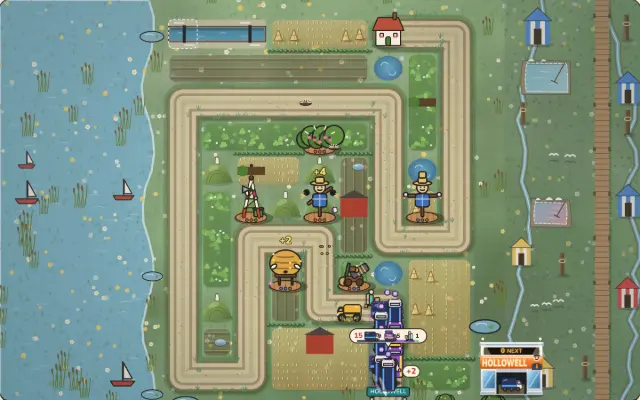
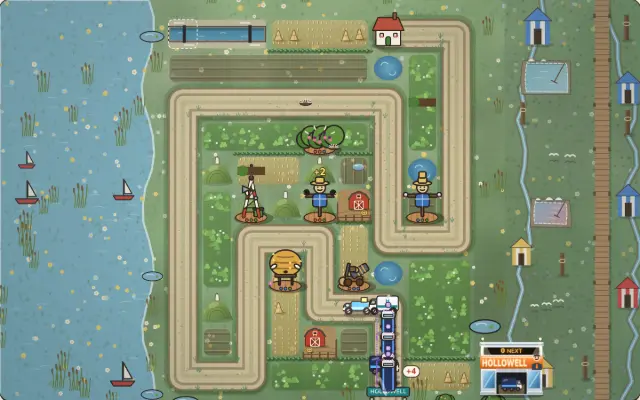
Hedgerow 345 slice 5: barns in farmyards (yard, fence, bale, a real barn) with the hens; item done
Claude-Session: https://claude.ai/code/session_01SimvMNJwjLrf1ytcJASHLK

diff --git a/games/hedgerow/src/render.ts b/games/hedgerow/src/render.ts
@@ -1264,17 +1264,8 @@ export class Renderer {
       }
     }
 
-    for (const [c, r] of level.barns ?? []) {
-      const w = X(1) - X(0);
-      ctx.fillStyle = "#a8402f";
-      ctx.fillRect(X(c) + w * 0.1, Y(r) + w * 0.25, w * 0.8, w * 0.6);
-      ctx.fillStyle = "#4a4540";
-      ctx.beginPath();
-      ctx.moveTo(X(c) + w * 0.04, Y(r) + w * 0.3);
-      ctx.lineTo(X(c) + w * 0.5, Y(r) + w * 0.06);
-      ctx.lineTo(X(c) + w * 0.96, Y(r) + w * 0.3);
-      ctx.fill();
-    }
+    // Plan item 345: each barn stands in its own farmyard (packed earth, a rail fence, a bale), where the hens peck.
+    for (const [c, r] of level.barns ?? []) drawFarmyard(ctx, X(c), Y(r), X(1) - X(0), c * 7 + r * 13 + level.id);
     // Fallen oaks lie across their plots until cleared.
     for (const [c, r] of level.oaks ?? []) {
       if (!oakAt(game, c, r)) continue;
@@ -2268,3 +2259,139 @@ function svgImage(svg: string): HTMLImageElement {
 
 // Keep theme exports reachable for the level-select art.
 export { themeFor };
+
+/**
+ * Plan item 345: a barn in its farmyard, drawn over its one cell (the barn's footprint in the rules) with the yard
+ * spilling a little into the grass round it: packed earth with wheel ruts, a post-and-rail fence along the yard's
+ * open sides, a round bale, and the barn itself (a gambrel roof, a hay-loft door, the big doors braced in white).
+ */
+function drawFarmyard(ctx: CanvasRenderingContext2D, x: number, y: number, w: number, seed: number): void {
+  const r01 = rng(seed);
+  const flip = r01() < 0.5;
+  ctx.save();
+  // The yard: packed earth, a soft edge, two ruts.
+  ctx.fillStyle = "rgba(40,30,10,0.16)";
+  ctx.beginPath();
+  ctx.roundRect(x + w * 0.02, y + w * 0.06, w * 0.96, w * 0.96, w * 0.2);
+  ctx.fill();
+  ctx.fillStyle = "rgb(168,138,92)";
+  ctx.beginPath();
+  ctx.roundRect(x + w * 0.02, y + w * 0.04, w * 0.96, w * 0.94, w * 0.2);
+  ctx.fill();
+  ctx.strokeStyle = "rgba(96,70,40,0.35)";
+  ctx.lineWidth = Math.max(1, w * 0.025);
+  for (const k of [0.62, 0.74]) {
+    ctx.beginPath();
+    ctx.moveTo(x + w * 0.05, y + w * (k + 0.12));
+    ctx.quadraticCurveTo(x + w * 0.5, y + w * (k - 0.02), x + w * 0.98, y + w * (k + 0.08));
+    ctx.stroke();
+  }
+  // The fence: posts and two rails along the front and one side.
+  const fx = flip ? x + w * 0.02 : x + w * 0.98;
+  ctx.strokeStyle = "#6b4b2c";
+  ctx.lineCap = "round";
+  ctx.lineWidth = Math.max(1, w * 0.03);
+  for (const k of [0.84, 0.95]) {
+    ctx.beginPath();
+    ctx.moveTo(x + w * 0.02, y + w * (k + 0.02));
+    ctx.lineTo(x + w * 0.98, y + w * (k + 0.02));
+    ctx.moveTo(fx, y + w * (k - 0.42));
+    ctx.lineTo(fx, y + w * (k + 0.02));
+    ctx.stroke();
+  }
+  ctx.lineWidth = Math.max(1.5, w * 0.045);
+  for (let i = 0; i <= 4; i++) {
+    const px = x + w * (0.02 + i * 0.24);
+    ctx.beginPath();
+    ctx.moveTo(px, y + w * 0.8);
+    ctx.lineTo(px, y + w * 1.0);
+    ctx.stroke();
+  }
+  for (const k of [0.45, 0.65]) {
+    ctx.beginPath();
+    ctx.moveTo(fx, y + w * k);
+    ctx.lineTo(fx, y + w * (k + 0.16));
+    ctx.stroke();
+  }
+  // A round bale in the yard's open corner.
+  const bx = flip ? x + w * 0.8 : x + w * 0.2;
+  const by = y + w * 0.72;
+  ctx.fillStyle = "rgba(60,40,12,0.25)";
+  ctx.beginPath();
+  ctx.ellipse(bx + w * 0.03, by + w * 0.07, w * 0.11, w * 0.04, 0, 0, Math.PI * 2);
+  ctx.fill();
+  ctx.fillStyle = "#e0bd68";
+  ctx.strokeStyle = "rgba(120,86,30,0.9)";
+  ctx.lineWidth = Math.max(1, w * 0.02);
+  ctx.beginPath();
+  ctx.ellipse(bx, by, w * 0.1, w * 0.085, 0, 0, Math.PI * 2);
+  ctx.fill();
+  ctx.stroke();
+  ctx.beginPath();
+  ctx.ellipse(bx, by, w * 0.05, w * 0.042, 0, 0, Math.PI * 2);
+  ctx.stroke();
+  // The barn, set to the back of the yard, its shadow falling right.
+  const bw = w * 0.56;
+  const left = flip ? x + w * 0.36 : x + w * 0.08;
+  const top = y + w * 0.12;
+  const wallTop = top + w * 0.2;
+  const base = y + w * 0.62;
+  ctx.fillStyle = "rgba(40,28,10,0.28)";
+  ctx.beginPath();
+  ctx.ellipse(left + bw * 0.6, base + w * 0.015, bw * 0.62, w * 0.05, 0, 0, Math.PI * 2);
+  ctx.fill();
+  ctx.fillStyle = "#b5432f";
+  ctx.strokeStyle = "#5a2418";
+  ctx.lineJoin = "round";
+  ctx.lineWidth = Math.max(1, w * 0.022);
+  ctx.beginPath();
+  ctx.moveTo(left, base);
+  ctx.lineTo(left, wallTop);
+  ctx.lineTo(left + bw * 0.16, top + w * 0.06);
+  ctx.lineTo(left + bw * 0.5, top - w * 0.02);
+  ctx.lineTo(left + bw * 0.84, top + w * 0.06);
+  ctx.lineTo(left + bw, wallTop);
+  ctx.lineTo(left + bw, base);
+  ctx.closePath();
+  ctx.fill();
+  ctx.stroke();
+  // The roof's slate edge over the gambrel.
+  ctx.strokeStyle = "#4a4540";
+  ctx.lineWidth = Math.max(1.5, w * 0.05);
+  ctx.beginPath();
+  ctx.moveTo(left - w * 0.02, wallTop + w * 0.01);
+  ctx.lineTo(left + bw * 0.16, top + w * 0.06);
+  ctx.lineTo(left + bw * 0.5, top - w * 0.02);
+  ctx.lineTo(left + bw * 0.84, top + w * 0.06);
+  ctx.lineTo(left + bw + w * 0.02, wallTop + w * 0.01);
+  ctx.stroke();
+  // The big doors, braced in white, and the hay-loft door above.
+  const dw = bw * 0.46;
+  const dx = left + (bw - dw) / 2;
+  const dTop = base - w * 0.24;
+  ctx.fillStyle = "#8e3424";
+  ctx.fillRect(dx, dTop, dw, base - dTop);
+  ctx.strokeStyle = "#fbf3e2";
+  ctx.lineWidth = Math.max(1, w * 0.02);
+  ctx.strokeRect(dx, dTop, dw, base - dTop);
+  ctx.beginPath();
+  ctx.moveTo(dx, dTop);
+  ctx.lineTo(dx + dw, base);
+  ctx.moveTo(dx + dw, dTop);
+  ctx.lineTo(dx, base);
+  ctx.moveTo(dx + dw / 2, dTop);
+  ctx.lineTo(dx + dw / 2, base);
+  ctx.stroke();
+  ctx.fillStyle = "#3c2a1c";
+  ctx.fillRect(left + bw * 0.4, top + w * 0.08, bw * 0.2, w * 0.08);
+  ctx.strokeRect(left + bw * 0.4, top + w * 0.08, bw * 0.2, w * 0.08);
+  // A wisp of hay at the loft door.
+  ctx.strokeStyle = "#e7c46a";
+  ctx.beginPath();
+  ctx.moveTo(left + bw * 0.44, top + w * 0.16);
+  ctx.lineTo(left + bw * 0.4, top + w * 0.2);
+  ctx.moveTo(left + bw * 0.54, top + w * 0.16);
+  ctx.lineTo(left + bw * 0.58, top + w * 0.21);
+  ctx.stroke();
+  ctx.restore();
+}

diff --git a/games/hedgerow/src/plotlook.ts b/games/hedgerow/src/plotlook.ts
@@ -44,7 +44,10 @@ function build(level: Level): { looks: Map<string, PlotLook>; field: Map<string,
   const field = new Map<string, Field>();
   let ids = 0;
   const used = new Map<PlotLook, number>();
-  const plain = (c: number, r: number) => !lane.has(`${c},${r}`) && !scenery.has(`${c},${r}`) && plotKind(level, c, r) === "plain";
+  // A barn's cell is its farmyard, not part of a field (item 345); a fallen oak lies across a field until cleared.
+  const barns = new Set((level.barns ?? []).map(([c, r]) => `${c},${r}`));
+  const plain = (c: number, r: number) =>
+    !lane.has(`${c},${r}`) && !scenery.has(`${c},${r}`) && !barns.has(`${c},${r}`) && plotKind(level, c, r) === "plain";
   for (let r = 0; r < level.rows; r++) {
     let prev: PlotLook | undefined;
     for (let c = 0; c < level.cols; ) {

diff --git a/games/hedgerow/src/farmfolk.ts b/games/hedgerow/src/farmfolk.ts
@@ -123,7 +123,10 @@ export function makeFolk(level: Level, count = CAST.length): FolkWorld {
       cells.filter(([c, r]) => !taken.some(([a, b]) => a === c && b === r)).sort((a, b) => Math.hypot(a[0] - to[0], a[1] - to[1]) - Math.hypot(b[0] - to[0], b[1] - to[1]) || rng(world) - 0.5)[0];
     const firstHen = world.folk.find((f) => f.kind === "hen");
     const beaF = world.folk.find((f) => f.kind === "bea");
+    // Plan item 345: the first hen settles by the first barn, so the hens peck about its farmyard.
+    const barn = level.barns?.[0];
     if (kind === "hen" && firstHen) pick = near(firstHen.anchor);
+    else if (kind === "hen" && barn) pick = near(barn);
     else if (kind === "dog" && beaF) pick = near(beaF.anchor);
     if (!pick) {
       let best = -1;

diff --git a/docs/plan/two-week-plan.md b/docs/plan/two-week-plan.md
@@ -3280,7 +3280,7 @@ The items come from fresh-eyes audits on 2026-11-01 and 2026-11-02 (items 25-32:
 - **Accept:** each point checked before and after at P and D; the specs for each screen pass.
 - **Size:** 1
 
-## 345. [ ] Hedgerow 2D: the field as a working farm, not a grid of identical tiles *(lane A, in progress)* *(slice 1, 2026-11-13 19:20 lane A: `plotLooks` gives each run of touching plain plots along a row one look (the run above a different one where they touch: 60%+ of vertical edges on every level, a unit test), and the 2D beds of one field join with no gap, their furrows running the run's length; a lone bed keeps its rim. The 3D terrain reads the same looks. Passing: tsc, eslint, hedgerow-plotlook/growth, keyart-fresh, ui-css-lint; hedgerow field/gatequeue/tower-lineup/growth/crayon/critique/buildring (62). Shots scratchpad h345 before/after, l21 and l34 at P and D. Left: the per-cell outlines still drawn outside build mode (the faint seams inside a field), hedge or wall boundaries where the crop changes, verges by the lane, farmyards over 2-3 cells, build-mode outlines at 3:1, key art)* *(slice 2, 19:25: the seams were each plot's own anti-aliased edge, so the field's first plot now paints the whole run as one bed (one fill, one rim, furrows its full length) and each plot keeps its own scatter, stooks and puddle. Same specs pass (53); shots scratchpad h345/after2. Left: hedge or wall boundaries where the crop changes, verges by the lane, farmyards, build-mode outlines at 3:1 with the outline count measured, key art)* *(slice 3, 19:30: where a field meets a different crop in the row below, a low hedge runs along the grass between them (a dark band crowned with leafy bumps, seeded per cell). hedgerow field/gatequeue/growth/crayon/critique/tower-lineup/buildring pass (62); shots scratchpad h345/after4, l21 and l34 at P and D. Left: verges by the lane, farmyards over 2-3 cells, build-mode outlines at 3:1 with the outline count measured, key art (`npm run keyart hedgerow`))* *(slice 4, 20:10 lane A: fields are blocks: a run under a field of exactly its span joins it, up to 3 rows deep, painted as one bed with furrows its long way (`fieldAt`), and a new field takes the look the level has used least among those free; bed rims drawn outside build mode are 34% of plots on l21 and 35% on l34 (were 100%; a unit test). With an empty plot picked, every other free plot gets a stitched outline (cream over a dark under-stroke, 3:1+ on the palest and darkest beds, unit-tested; 2 px+, `hedgerow.outlines()`, e2e at P and D). Key art re-shot. Left: farmyards over 2-3 cells with hens)*
+## 345. [x] Hedgerow 2D: the field as a working farm, not a grid of identical tiles *(done 2026-11-13 20:30, lane A; slice 5: each barn stands in its own farmyard (packed earth with ruts, a post-and-rail fence, a round bale, a gambrel-roofed barn with braced doors and a loft door), its cell out of the fields, and the hens settle by the first barn. The yard stays on the barn's one cell (its footprint in the rules) rather than 2-3 cells, so placement and the tuner are untouched. Hedgerow units (634), field/growth/folk specs (17) pass; key art re-shot; shots scratchpad h345/yard-*)* *(slice 1, 2026-11-13 19:20 lane A: `plotLooks` gives each run of touching plain plots along a row one look (the run above a different one where they touch: 60%+ of vertical edges on every level, a unit test), and the 2D beds of one field join with no gap, their furrows running the run's length; a lone bed keeps its rim. The 3D terrain reads the same looks. Passing: tsc, eslint, hedgerow-plotlook/growth, keyart-fresh, ui-css-lint; hedgerow field/gatequeue/tower-lineup/growth/crayon/critique/buildring (62). Shots scratchpad h345 before/after, l21 and l34 at P and D. Left: the per-cell outlines still drawn outside build mode (the faint seams inside a field), hedge or wall boundaries where the crop changes, verges by the lane, farmyards over 2-3 cells, build-mode outlines at 3:1, key art)* *(slice 2, 19:25: the seams were each plot's own anti-aliased edge, so the field's first plot now paints the whole run as one bed (one fill, one rim, furrows its full length) and each plot keeps its own scatter, stooks and puddle. Same specs pass (53); shots scratchpad h345/after2. Left: hedge or wall boundaries where the crop changes, verges by the lane, farmyards, build-mode outlines at 3:1 with the outline count measured, key art)* *(slice 3, 19:30: where a field meets a different crop in the row below, a low hedge runs along the grass between them (a dark band crowned with leafy bumps, seeded per cell). hedgerow field/gatequeue/growth/crayon/critique/tower-lineup/buildring pass (62); shots scratchpad h345/after4, l21 and l34 at P and D. Left: verges by the lane, farmyards over 2-3 cells, build-mode outlines at 3:1 with the outline count measured, key art (`npm run keyart hedgerow`))* *(slice 4, 20:10 lane A: fields are blocks: a run under a field of exactly its span joins it, up to 3 rows deep, painted as one bed with furrows its long way (`fieldAt`), and a new field takes the look the level has used least among those free; bed rims drawn outside build mode are 34% of plots on l21 and 35% on l34 (were 100%; a unit test). With an empty plot picked, every other free plot gets a stitched outline (cream over a dark under-stroke, 3:1+ on the palest and darkest beds, unit-tested; 2 px+, `hedgerow.outlines()`, e2e at P and D). Key art re-shot. Left: farmyards over 2-3 cells with hens)*
 - **Why:** `plan1113a/hedge-l21-2d-D` (380-1000 x 100-880) and `hedge-l34-2d-D` (300-1000 x 90-880): every non-lane cell is the same rounded square with the same gap, cycling lettuce, wheat, furrows and stubble; the barns, mounds and house sit in single cells (`l21-2d-D` 610-670 x 300-355, 545-610 x 680-740). It reads as a board-game tile sheet, not a place (VISION 2).
 - **Build:** each run of touching plots (along rows between lanes) as one continuous field: one crop texture with rows running the length of the run, hedgerow or dry-stone boundaries only where the crop changes, grass verges by the lane; buildings grouped into farmyards (barn, house, yard, fence) over 2-3 cells with hens in the yard; each buildable cell a faint stitched outline only on hover, selection and in build mode; deterministic per level so key art and the tuner are unaffected.
 - **Accept:**
